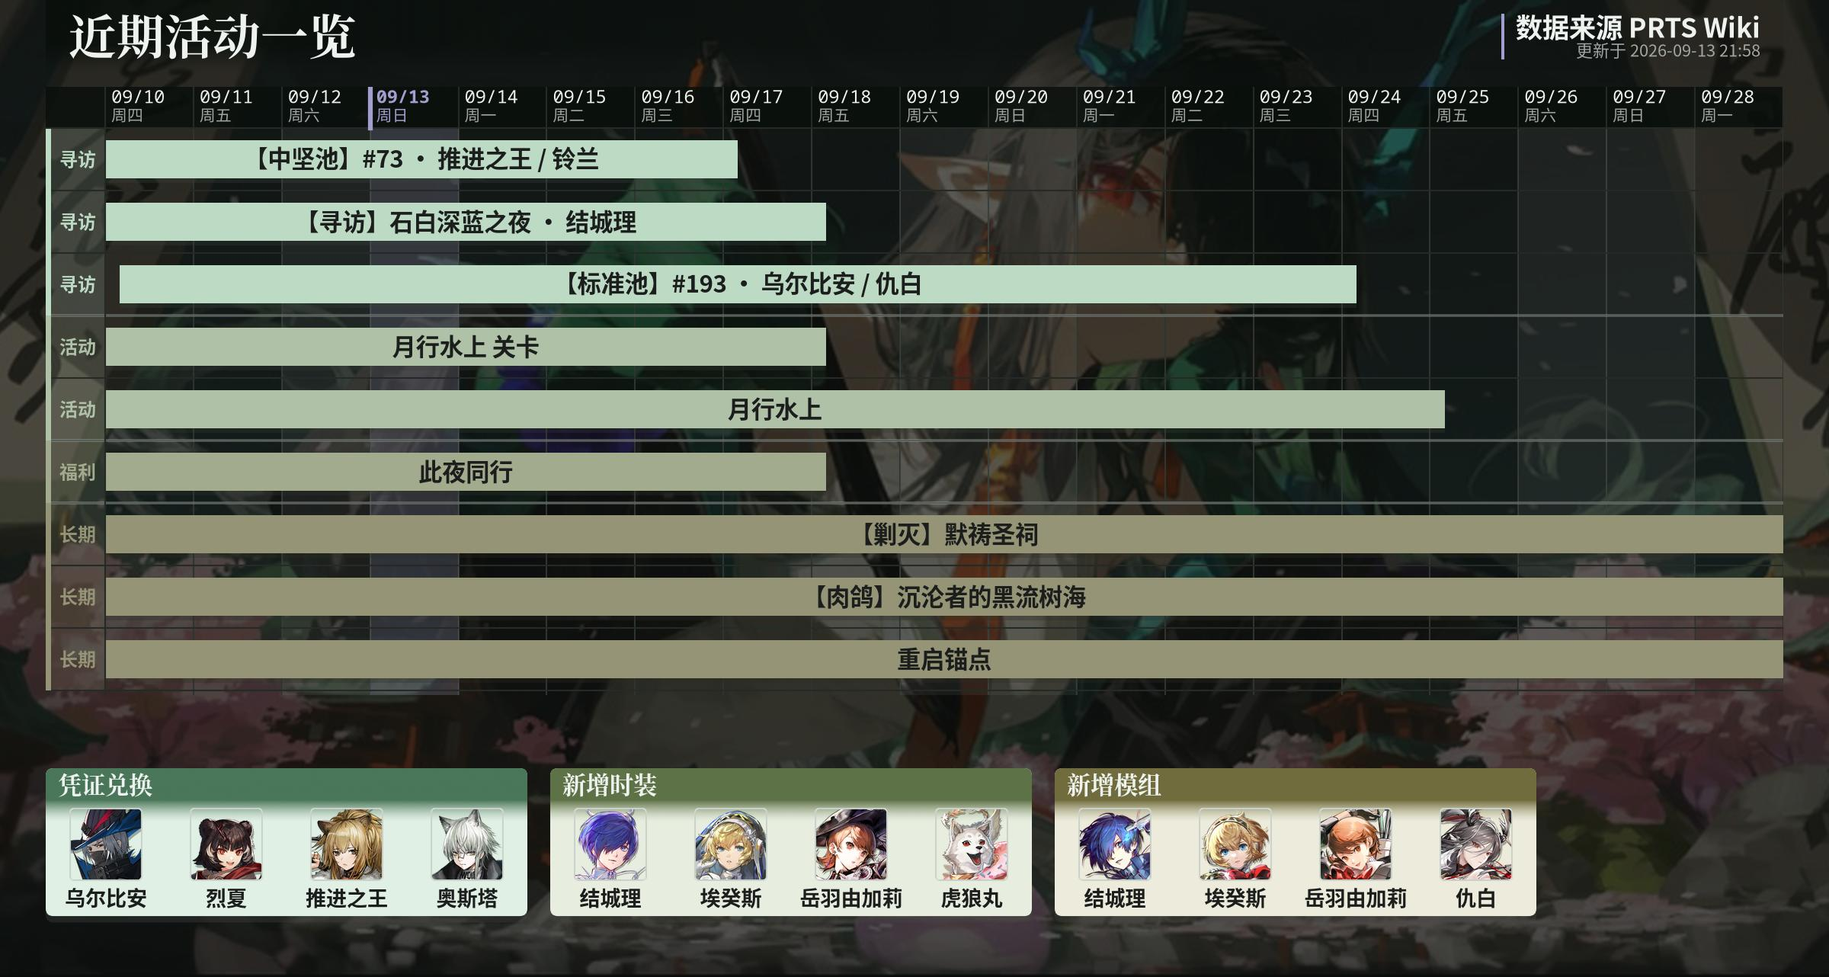
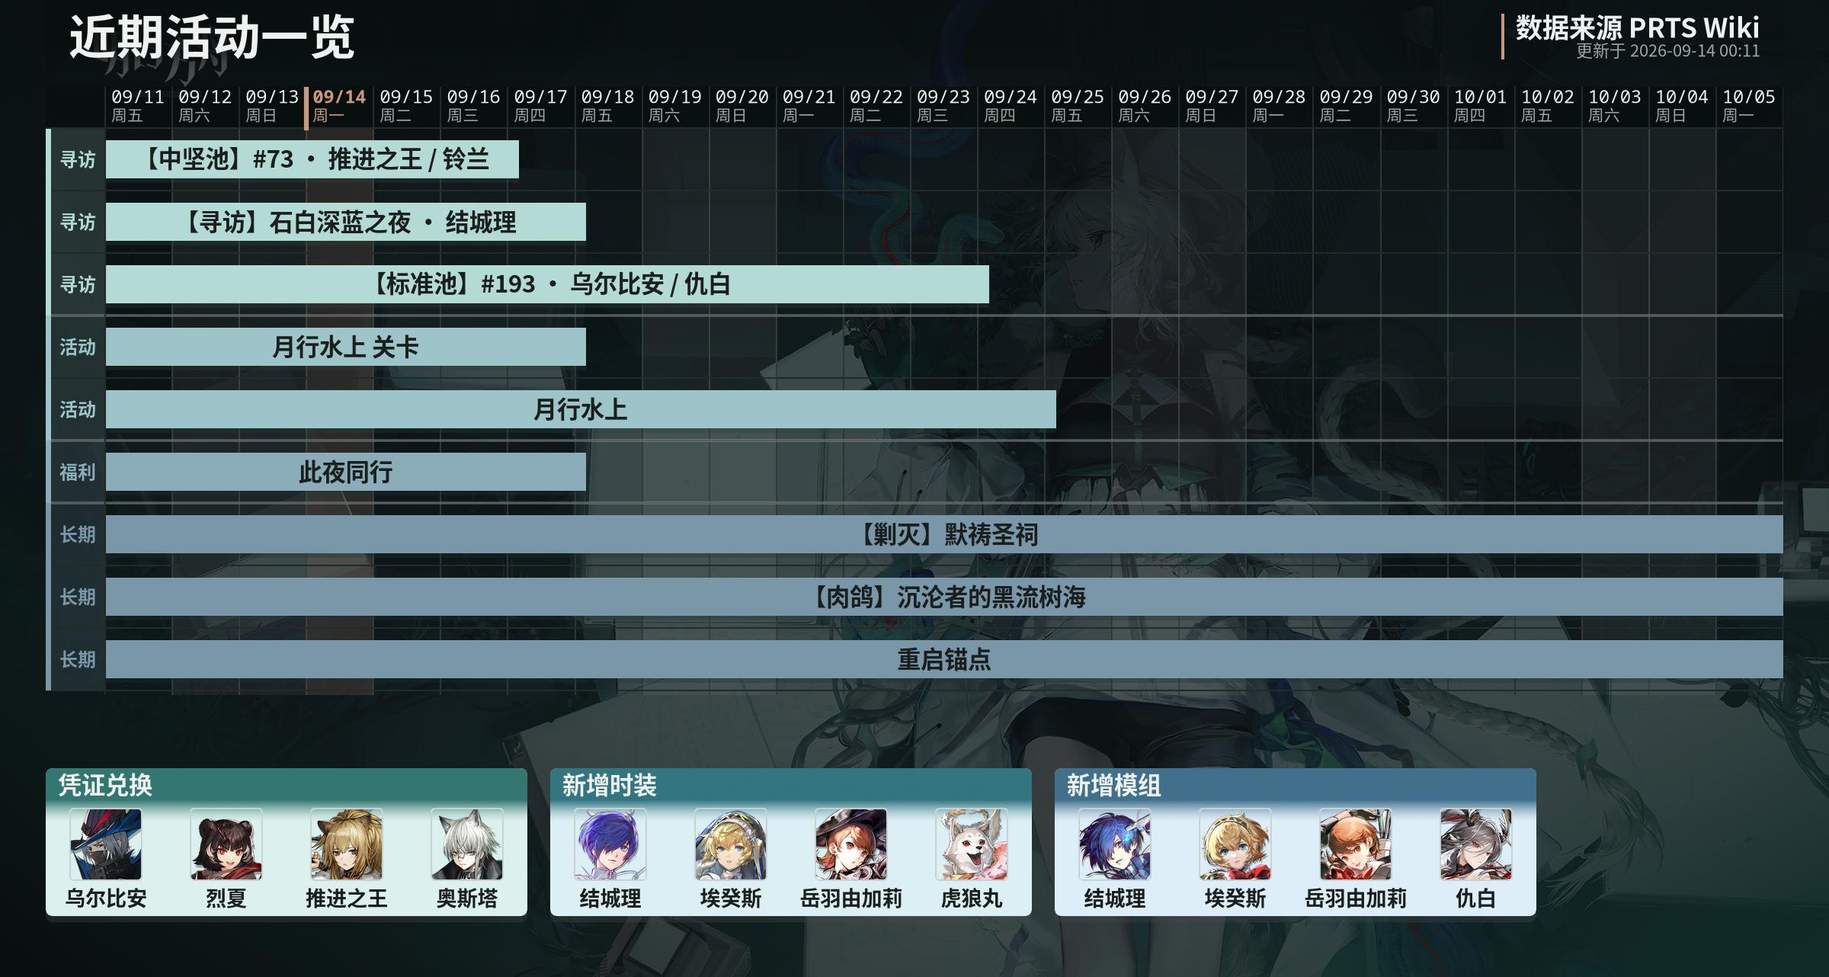
四件事：README 图、默认真实度量、底栏三开关、字体来源结论
1) 更新 README 效果图 Gantt.jpg（沿用原图的 沉沦者.WEBP 背景、默认标题/提醒天数），
   内容为当日刷新后的数据，字形已是无衬线。

2) 文本宽() 默认切到"真实"（GK_文本度量=估算 可退回）。代价实测：冷缓存 13.7ms、热缓存 ~0
   （热渲染 1.21s）；收益：卡边判定改用真实字形（估算对等宽日期低估 14.9%）。

3) 新增底栏三面板开关（_conf_schema.json 的 panels 节：voucher/outfit/module，默认全开）：
   - 内核：render_once(底栏分区=...) + src/流水线.py::筛选底栏分区()，未选中的板块置空 →
     底栏不画它、过期提醒也不提它（复用既有空板块处理）；None = 三个都展示（默认路径不变）。
   - 插件：运行配置.底栏分区()（全开返回 None），值同时进复用记录的键 → 改开关后不会继续发旧图。
   - 分区名是跨层契约（插件/配置.py::底栏区名 == src/绘图_排版.py::区名表），由验证脚本钉住。
   - 判据：8 种组合全部正确；全关时图高 1282 → 1054（底栏整段消失），警告同步收敛。
   - 顺带修 bug：渲染结果.名称数 原来拿区名查 JSON 键（恒为 0），改按 新增键 映射取，实测 12。

4) 分析"是否需要直接用 AstrBot local 字体"→ 结论：不要。实测把字体换成 AstrBot local 策略在
   Windows 会选的微软雅黑，像素差 9.985%（vs 去衬线的 1.277%），日期刻度 68.8 → 63.5px 且失去
   等宽；而它能给的字体我们自己的兜底链在 Linux/Docker 上已经能拿到（官方镜像装了 fonts-noto-cjk），
   导入它的 FontManager 还是内部路径 + 575ms。文档 §5.4 记录结论与对照图。

另：衬线字体文件 NotoSerifCJKsc-Bold.otf 的删除被运行中的 AstrBot 占用句柄挡住（Remove/Move 都报
being used by another process），已在 §13 记为"重启后执行"，附命令。

验证：py_compile / schema 解析通过；默认度量方式实测为"真实"；CLI 冒烟正常；
插件侧模拟实例回归全绿（schema 15 字段 ↔ 代码映射一一对应）。

diff --git a/src/流水线.py b/src/流水线.py
@@ -211,6 +211,21 @@ def 读取新增内容() -> dict:
         return {}
 
 
+def 筛选底栏分区(新增内容: dict, 底栏分区: tuple[str, ...] | None) -> dict:
+    """只保留要展示的底栏分区：未选中的板块置空 → 底栏不画它，警告也不再提它。
+
+    参数用 绘图_排版.区名表 里的名字（"凭证兑换" / "新增时装" / "新增模组"）；
+    None = 三个都要，原样返回（默认路径行为不变）。
+    置空（而不是删键）是为了让 `建分区()` 与 `生成警告()` 的"空板块"处理照旧生效。
+    """
+    if 底栏分区 is None:
+        return 新增内容
+    from .绘图_排版 import 新增键, 区名表
+
+    保留 = {新增键[名] for 名 in 区名表 if 名 in 底栏分区}
+    return {**新增内容, **{键: [] for 键 in 新增键.values() if 键 not in 保留}}
+
+
 def 布置头像(分区: list[tuple[str, list[dict]]]) -> None:
     """底栏条目的头像补齐到 数据/图片缓存/（已存在的跳过），失败只记数不中断"""
     缓存目录 = Path(settings.icon_cache_dir)
@@ -235,6 +250,7 @@ def render_once(
     背景路径: str | Path | None = None,
     标题: str = _DEFAULT_TITLE,
     提醒天数: int = 3,
+    底栏分区: tuple[str, ...] | None = None,
     控制台打印警告: bool = True,
 ) -> 渲染结果:
     """数据 → 图片 + 警告。不碰 argparse，也不判断"今天要不要爬"。
@@ -247,6 +263,8 @@ def render_once(
         背景路径      : None 时从 settings.bg_dir 随机取一张
         标题          : 图片主标题
         提醒天数      : 过期警告的提醒窗口
+        底栏分区      : 要展示的底栏分区（"凭证兑换"/"新增时装"/"新增模组"）；
+                        None = 三个都展示（默认）。未选中的区不画，警告里也不提。
         控制台打印警告: 是否把警告同时打到 stdout（CLI 用；插件应关掉）
     """
     现在时间 = 现在时间 or datetime.now()
@@ -255,7 +273,7 @@ def render_once(
 
     # 重依赖按需导入：matplotlib 只在这里被拖进来，而 render_once 由入口层
     # 放进 asyncio.to_thread 执行，因此这 1s 左右的导入不会卡住事件循环。
-    from .绘图_排版 import 建分区, 绘制甘特图
+    from .绘图_排版 import 建分区, 绘制甘特图, 新增键
     from .绘图_主题 import 建主题
 
     # 可选的数据刷新（策略由调用方决定，这里只执行）
@@ -284,8 +302,8 @@ def render_once(
     背景 = 挑选背景图(背景路径)
     主题 = 建主题(背景)
 
-    # 底栏上新区（凭证/时装/模组）
-    新增内容 = 读取新增内容()
+    # 底栏上新区（凭证/时装/模组）——按调用方的开关裁剪
+    新增内容 = 筛选底栏分区(读取新增内容(), 底栏分区)
     分区 = 建分区(新增内容)
     try:
         布置头像(分区)
@@ -322,6 +340,6 @@ def render_once(
         警告=警告,
         标题=标题,
         条目数=len(记录),
-        名称数=sum(len(新增内容.get(k) or []) for k in _WARN_SECTIONS),
+        名称数=sum(len(新增内容.get(新增键[k]) or []) for k in _WARN_SECTIONS),
         分区计数={区名: len(条目们) for 区名, 条目们 in 分区},
     )

diff --git a/插件/配置.py b/插件/配置.py
@@ -30,6 +30,10 @@ from typing import Any
 
 真值串 = {"1", "true", "yes", "on", "是", "真", "开"}
 
+# 底栏三个分区的名字。**必须与 `src/绘图_排版.py` 的 `区名表` 一致**——加载期不能 import
+# 那个模块（它会拖进 matplotlib，1s 级阻塞），只能在这里复制一份，靠验证脚本钉住契约。
+底栏区名 = ("凭证兑换", "新增时装", "新增模组")
+
 
 @dataclass(frozen=True, slots=True)
 class 运行配置:
@@ -43,6 +47,10 @@ class 运行配置:
     复用窗口秒: int = 60
     随机背景: bool = True
     指定背景: str = ""
+    # panels
+    凭证面板: bool = True
+    时装面板: bool = True
+    模组面板: bool = True
     # data
     每日自动更新: bool = True
     api上限: int = 50
@@ -50,6 +58,12 @@ class 运行配置:
     # assets
     字体目录: str = ""
     背景目录: str = ""
+
+    def 底栏分区(self) -> tuple[str, ...] | None:
+        """要展示的底栏分区；三个都开时返回 None（走内核默认路径，行为与改造前一致）。"""
+        开着 = tuple(名 for 名, 显示 in zip(底栏区名, (self.凭证面板, self.时装面板, self.模组面板),
+                                            strict=True) if 显示)
+        return None if len(开着) == len(底栏区名) else 开着
 
 
 def 读取节(config: Any, 节名: str) -> dict[str, Any]:
@@ -98,6 +112,7 @@ def 读取配置(config: Any) -> 运行配置:
     """
     默认 = 运行配置()
     render = 读取节(config, "render")
+    panels = 读取节(config, "panels")
     data = 读取节(config, "data")
     assets = 读取节(config, "assets")
 
@@ -113,6 +128,9 @@ def 读取配置(config: Any) -> 运行配置:
         复用窗口秒=整数(render, "reuse_seconds", 默认.复用窗口秒),
         随机背景=读取开关(render.get("random_background"), 默认.随机背景),
         指定背景=读取文本(render.get("background_file"), 默认.指定背景),
+        凭证面板=读取开关(panels.get("voucher"), 默认.凭证面板),
+        时装面板=读取开关(panels.get("outfit"), 默认.时装面板),
+        模组面板=读取开关(panels.get("module"), 默认.模组面板),
         每日自动更新=读取开关(data.get("auto_refresh_daily"), 默认.每日自动更新),
         api上限=整数(data, "api_limit", 默认.api上限),
         未来缓冲小时=整数(data, "future_buffer_hours", 默认.未来缓冲小时),

diff --git a/src/绘图_排版.py b/src/绘图_排版.py
@@ -136,19 +136,21 @@ def 区弧度表() -> dict[str, float]:
 
 
 # ============================ 文本宽度 ============================
-# 两种度量方式，用 GK_文本度量 切换（对照实验与回退用）：
+# 两种度量方式，用 GK_文本度量 切换：
 #
-#   估算（默认，改造前的行为）：汉字/全角记 1em、其余记 0.55em。
-#     快，但**与真实字形有系统性偏差**，而且偏差方向随字体翻转（实测：对随包 Noto Sans CJK
-#     的 "2026-07-01" 偏宽 5.8%，换成微软雅黑则偏窄 1.5%、混合串偏宽 11.3%）；
-#     对等宽日期标签低估 14.9%（唯一显著的偏差）。
-#   真实：交给 matplotlib 自己量（`TextToPath`，与渲染器同一条 set_text 路径、含 fallback 列表）。
-#     一次渲染只有几十次调用（活动名 + 日期刻度 + 底栏截断），实测开销可忽略。
+#   真实（默认）：交给 matplotlib 自己量（`TextToPath`，与渲染器同一条 set_text 路径、
+#     含 fallback 列表），按 (串, 字号, family, weight) 缓存。一次渲染只有几十次调用
+#     （活动名 + 日期刻度 + 底栏截断），实测冷缓存 +19ms、热缓存 ~0，代价可忽略。
+#   估算（GK_文本度量=估算 可退回）：汉字/全角记 1em、其余记 0.55em。
+#     快，但**与真实字形有系统性偏差**，且偏差方向随字体翻转（对随包 Noto Sans CJK 的
+#     "2026-07-01" 偏宽 5.8%；换微软雅黑则数字偏窄 1.5%、混合串偏宽 11.3%），
+#     对等宽日期标签低估 14.9%。窗口 ≤30 天时这个偏差看不出来（判定余量 ≥60px），
+#     但窗口拉长/换字体后会让"名字放不放得进条内"这类卡边判定出错（实测 60 天时 1 处）。
 #
 # ⚠ **不要**改成 `FT2Font.load_char()` 逐字取 advance：字体里缺该字形时（例如没装中文字体、
 #    只剩 DejaVu），本机实测**直接段错误 0xC0000005 把宿主进程打死**——AstrBot 会跟着挂。
 #    `get_text_width_height_descent()` 遇到缺字形只 warning，是安全的。
-字体度量方式 = os.environ.get("GK_文本度量", "估算").strip() or "估算"
+字体度量方式 = os.environ.get("GK_文本度量", "真实").strip() or "真实"
 
 
 @lru_cache(maxsize=1)

diff --git a/插件/渲染.py b/插件/渲染.py
@@ -39,7 +39,8 @@ class 渲染服务:
         # 锁在事件循环里首次使用时才绑定循环（Python 3.10+ 的 Lock 不再在构造期绑定），
         # 这里构造于插件加载期也安全。
         self._锁 = asyncio.Lock()
-        self._最近: tuple[datetime, 渲染结果] | None = None
+        # 复用记录：(时刻, 底栏分区, 渲染结果)。底栏分区进键，改开关后不会继续发旧图。
+        self._最近: tuple[datetime, tuple[str, ...] | None, 渲染结果] | None = None
 
     # ==================== 环境与设置 ====================
 
@@ -109,10 +110,12 @@ class 渲染服务:
         return not 今天写过(Path(设置.all_data_path), 现在时间)
 
     def 取复用(self, 现在时间: datetime, 运行配置: 运行配置) -> 渲染结果 | None:
-        """复用窗口内已渲染过的图（同步、不取锁；锁内的二次确认见 `出图()`）。"""
+        """复用窗口内已渲染过、且底栏分区开关没变的图（同步、不取锁；锁内二次确认见 `出图()`）。"""
         if 运行配置.复用窗口秒 <= 0 or self._最近 is None:
             return None
-        时刻, 结果 = self._最近
+        时刻, 分区, 结果 = self._最近
+        if 分区 != 运行配置.底栏分区():
+            return None
         if 现在时间 - 时刻 > timedelta(seconds=运行配置.复用窗口秒):
             return None
         路径 = Path(结果.图片路径)
@@ -148,7 +151,7 @@ class 渲染服务:
             结果 = await asyncio.to_thread(
                 self._同步出图, 现在时间, 运行配置, 自动更新, 强制刷新
             )
-            self._最近 = (现在时间, 结果)
+            self._最近 = (现在时间, 运行配置.底栏分区(), 结果)
             return 结果
 
     # ==================== 工作线程里做的事 ====================
@@ -180,6 +183,7 @@ class 渲染服务:
             背景路径=self._背景路径(运行配置, 设置),
             标题=运行配置.标题,
             提醒天数=运行配置.提醒天数,
+            底栏分区=运行配置.底栏分区(),
             控制台打印警告=False,   # 插件里警告随图走，不打到 stdout
         )
 

diff --git a/docs/插件化路线.md b/docs/插件化路线.md
@@ -219,6 +219,27 @@ plugin_data_path = Path(get_astrbot_data_path()) / "plugin_data" / self.name
 
 > 字体子集化的完整方案（含实测体积、`--retain-gids` 的坑、OFL 改名要求、三平台系统字体宽度实测）已归档到 §14，供将来若改主意时参考。
 
+**要不要改成"直接用 AstrBot 的 local 字体"？（2026-09-14 实测结论：不要）**
+
+前面两条原本反对用系统字体的硬理由，现在都消失了：衬线已去掉（§10 阶段三·补 1）、
+宽度估算已换成真实度量（同篇 2）。于是只剩**设计一致性**这一条，而它恰好是随包字体的价值：
+
+| 对照（固定背景/时刻，逐像素） | 结果 |
+|---|---|
+| 随包 Noto Sans CJK + Noto Sans Mono → 系统微软雅黑（正文明细：AstrBot 的 local 策略在 Windows 解析到 msyh/msyhbd，等宽档也回落雅黑） | 像素差 **9.985%**（vs 去衬线的 1.277%）——整页字形全变 |
+| 日期刻度 `09/13` | Noto Mono 68.8px → 雅黑 63.5px（−7.6%），而且**不再是等宽**（雅黑无等宽 CJK）→ 日期轴带的齐整感丢失 |
+| 活动名 `【标准池】#193 · 乌尔比安 / 仇白` | 489.2px → 487.3px（−0.4%，长度影响可忽略） |
+
+- 复用它能拿到的字体，**我们自己的兜底链已经能拿到**：Linux/Docker 上官方镜像装了 `fonts-noto-cjk`，
+  而兜底链第一/第二候选正是 `Noto Sans CJK SC` / `JP`（ttc 首 face）——也就是说在 Linux 上"用不用它"没差别。
+- 而**导入它的解析结果本身有成本**：`astrbot.core.utils.t2i.local_strategy.FontManager` 是内部路径
+  （不在 `astrbot.api.*`，4.28 刚被整体重写），返回的是 Pillow 字体对象（路径要从非契约的 `.path` 抠），
+  且 `import` 实测 **575ms**（宿主已装齐依赖的前提下）。
+- 结论：**保留随包字体作为设计基线**（4 个文件、34MB），系统兜底链继续作为"缺字体时不崩"的保险；
+  不 import AstrBot 的内部字体解析。将来若想让用户自带字体，用已有的 `assets.font_dir` 就够，
+  最多再加一个 `data/font.ttf` 式的约定槽——都不需要碰 AstrBot 内部。
+  实测对照图：`tmp/度量/字体来源对比_对照.png`（探针 `tmp/度量_系统字体.py`）。
+
 ### 5.5 matplotlib 依赖与无头环境
 
 - 官方 AstrBot `requirements.txt` 含 `pandas` / `pillow` / `httpx` / `apscheduler`，**不含 matplotlib / numpy** → 我们的 `requirements.txt` 至少要有 `matplotlib`、`numpy`。
@@ -637,9 +658,9 @@ class GanttKnightsPlugin(Star):
 | 衬线 → 无衬线 | 像素差 **1.277%**，差异**只**落在页眉标题（纵向 0–10%，3.28%/行）与底栏分区标签（70–90%，0.84% + 1.80%）两处；版面位置零位移，`概况` / 警告文案逐字不变 |
 | 为什么可以去掉 | 两处都是纯中文短串，而**所有候选字体的汉字 advance 都是 1.000em** → 换族对宽度零影响；反过来旧兜底会落到可变字体衬线（ExtraLight(200)）反而更细 |
 
-**2. `文本宽()` 换真实度量（已实现，默认仍走估算）**
+**2. `文本宽()` 换真实度量（已实现，2026-09-14 起为默认）**
 
-`src/绘图_排版.py`：新增 `字体度量方式`（`GK_文本度量=估算|真实`，默认 `估算` = 改造前行为）。
+`src/绘图_排版.py`：`字体度量方式`（`GK_文本度量=估算|真实`，**默认 `真实`**；设 `估算` 可退回旧行为）。
 "真实"**交给 matplotlib 自己量**：`TextToPath.get_text_width_height_descent(s, FontProperties(family, weight, size), False)`
 （与渲染器同一条 `set_text` 路径、含字体 fallback 列表），按 `(串, 字号, family, weight)` 做 `lru_cache`；
 调用点把实际绘制用的 family/weight 传进来，`截到宽()` 同步加这两个参数。
@@ -676,7 +697,7 @@ class GanttKnightsPlugin(Star):
 结论：真实度量在默认窗口下**逐像素零变化**——条宽充足，各判定离边界都很远（容忍带实测 ±20%）。
 它兑现价值的地方是**窗口拉长后条被压窄**：那时"名字放不放得进条内"就取决于几个百分点的宽度差，
 估算会把本该留在条内的名字误判成引到条外（实测 1 处）。换字体同理（估算偏差方向会翻转）。
-默认值暂不切换，要启用就设 `GK_文本度量=真实`（或把 `字体度量方式` 的默认值改掉，一行）。
+2026-09-14 起**默认已切到 `真实`**（代价见上表：冷 +19ms / 热 ~0，可忽略）。
 
 **窗口多长才会出问题？**（不渲染，直接算每个判定离边界的余量；`left_offset_days=3` 固定）
 
@@ -692,10 +713,31 @@ class GanttKnightsPlugin(Star):
 
 → **上限收到 30 天**（`_conf_schema.json` 的 `maximum` 与 `插件/配置.py` 的夹取范围同步改），
 默认仍是 22。30 天时余量 60px / 7px，安全；35 天起贴边；≥45 天开始真的分歧。
-> 余量是对**当前这份数据**算的：换一批活动名，仍可能有个别名字恰好卡边——想彻底消掉这类
-> 不确定性，就把默认切成 `真实`（本页第 2 项的开关）。
+> 余量是对**当前这份数据**算的；不过默认已切到 `真实`，即便个别名字卡边，判定用的也是真实字形。
 
-**3. 渲染性能（顺带记录）**
+**3. 底栏三个面板开关（2026-09-14 新增）**
+
+`_conf_schema.json` 新增 `panels` 节三个开关（WebUI 里是三个开关按钮）：
+
+| 配置键 | 默认 | 关掉后 |
+|---|---|---|
+| `panels.voucher` | 开 | 不画「凭证兑换」面板 |
+| `panels.outfit` | 开 | 不画「新增时装」面板 |
+| `panels.module` | 开 | 不画「新增模组」面板 |
+
+- 内核侧 `render_once(底栏分区=...)`（`src/流水线.py::筛选底栏分区`）：把未选中的板块**置空**，
+  于是"底栏不画它"与"过期提醒里也不提它"同时成立（复用既有的空板块处理，不删键）；
+  `None` = 三个都展示，与改造前完全同路径。
+- 插件侧 `运行配置.底栏分区()`：三个都开时返回 `None`（走默认路径），否则返回子集；
+  该值同时进复用记录的键 → 改开关后不会继续发 60 秒内的旧图。
+- 分区名是跨层契约：`插件/配置.py::底栏区名` 必须等于 `src/绘图_排版.py::区名表`
+  （加载期不能 import 那个模块，它会拖进 matplotlib），由验证脚本钉住。
+- 判据复核：8 种组合全部出图正确——`分区计数` 与 `概况` 逐项符合预期；全关时图高从 1282 → 1054
+  （底栏整段消失，不产出空行），警告文案也同步收敛（关掉时装/模组后不再列它们）。
+  顺带修掉一个潜藏 bug：`渲染结果.名称数` 原来用区名去查 JSON 键（`新增内容.get("凭证兑换")`），
+  恒为 0；现在按 `新增键` 映射取，实测 12。
+
+**4. 渲染性能（顺带记录）**
 
 热渲染一次 ~1.26–1.34s，冷启动（含 matplotlib 首次导入 + 字体注册）~1.6s；
 
@@ -812,6 +854,10 @@ class GanttKnightsPlugin(Star):
 - **入口布局（阶段三起）**：`main.py` = AstrBot 插件入口，`cli.py` = CLI；`插件/` 是适配层，`__init__.py` 只放 docstring。新增 `metadata.yaml` / `_conf_schema.json` / `requirements.txt`。
 - `.venv/` 是**空壳**（只有 `pyvenv.cfg`，无 `Scripts/`）→ 阶段三的验证改用两个现成解释器：AstrBot 的 uv tool 环境（`~\AppData\Roaming\uv\tools\astrbot\Scripts\python.exe`，3.12.13）跑"模拟实例"验证，miniconda（3.13）跑 CLI 冒烟。要用 `.venv` 得先 `uv sync`。
 - `字体/` 已在 `.gitignore` 中（`git ls-files` 为 0），但**文件实际存在于工作区**（2026-09 去衬线后为 4 个文件、约 34MB）→ 本地插件直接使用这些文件，不做子集化（§5.4）。**换机器必须自行准备字体**（`src/字体.py` 的 docstring 有下载地址）。
+  - ⚠ `NotoSerifCJKsc-Bold.otf`（25MB）已不再被引用，**删除动作待 AstrBot 重启后执行**：运行中的
+    实例持有该文件句柄（matplotlib 的 `get_font` 缓存），实测 `Remove-Item` / `Move-Item` 均报
+    "being used by another process"。重启后 `Remove-Item 字体\NotoSerifCJKsc-Bold.otf`（可连同
+    `字体\LICENSE-NotoSerifCJK.txt` 一起删）。
 - `背景图/` **已进 git**（2 个文件跟踪），换机器不需额外拷贝；缺失时 `挑选背景图()`（`src/流水线.py`）会 `SystemExit(1)`——插件侧已提前拦成可读文案（阶段三）。
 - `数据/` 内容已被 `.gitignore` 排除（`所有活动数据.csv`、`图片缓存/`、`新增预告.json`、`警告.txt`）→ 运行时自动生成，符合「用户数据与代码分离」的要求。插件侧写到 `data/plugin_data/<插件名>/`，与这里的 `数据/` 互不干扰。
 - `纹理/` 已于本次清理中删除（唯一文件 `神秘素材.jpg` 无任何代码引用，属废弃素材）。
